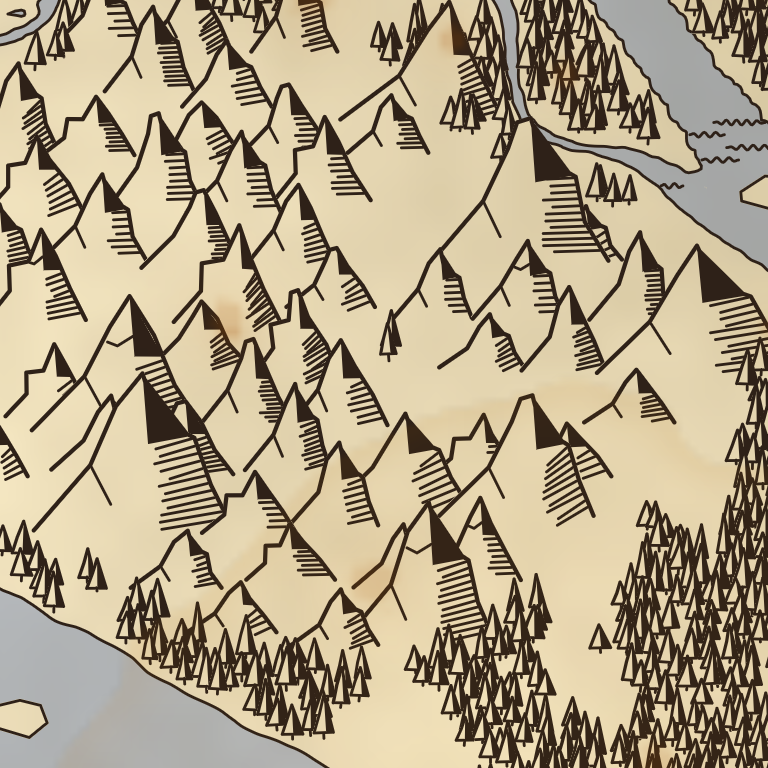
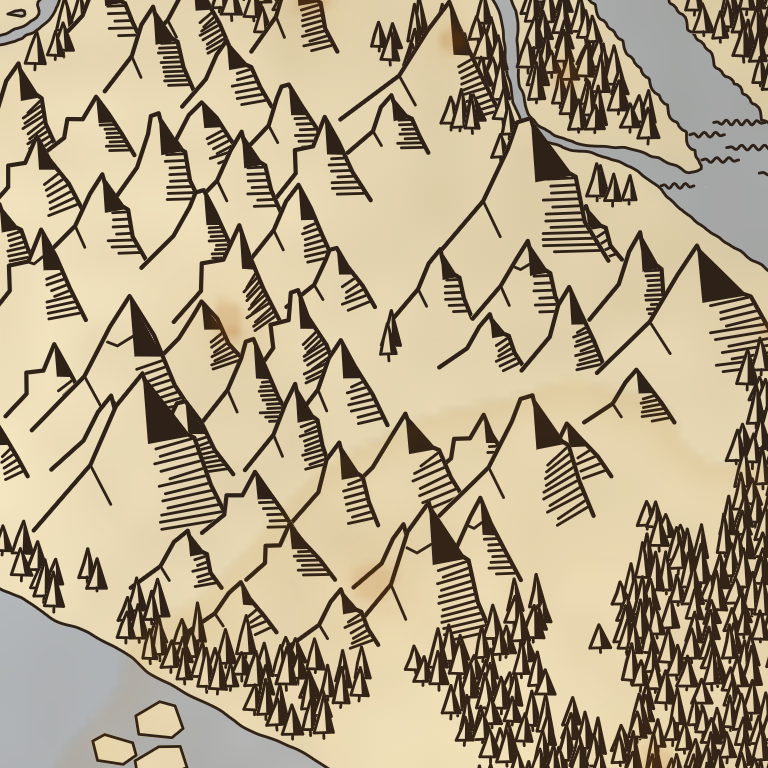
Lay ice floes where the game sets its ice
The game's ice is Deep North vegetation only, and GetBiome gives the
Ocean before the Deep North wherever the base height is low, so the open
northern sea is Ocean with no ice; about 70% of the floes stood there
while the real ice, the Deep North's shallow coast and its side of the
border moat, was mostly missed. Floes now lie on sea water in the Deep
North whose height over CreateDeepNorthGap is at least 14 m, on a finer
grid and kept only a little off the shore. They are drawn over the waves
instead of the waves keeping off them, the open northern sea may hold
the sea figures like any ocean, and Deep North lakes get a lighter water
glaze. Sheet cache version 17.

diff --git a/src/Ink/WorldSource.cs b/src/Ink/WorldSource.cs
@@ -124,6 +124,19 @@ namespace Atlas
         public float[] m_swampField;
         // Swamp water joined to the sea, which is not raised (MarkSwampSea).
         public bool[] m_swampSea;
+        // The Deep North's own water, where the game sets its ice (MarkIce), grown by IceReach map
+        // pixels so a floe may lie half over the open sea beside a narrow fringe.
+        public bool[] m_iceWater;
+        // The Deep North's lakes (water not joined to the map's edge), 1 in a lake, 0 elsewhere,
+        // which take a lighter water glaze (Paper.WaterColor).
+        public float[] m_northLake;
+        // Vanilla's GetBiome gives the Ocean before the Deep North wherever the base height is low,
+        // so the open northern sea is Ocean, at most about 4 m above the sea floor's zero, and the
+        // Deep North's own water (its shallow coast, the north side of the border moat, its lakes)
+        // stands at 23 m and more before CreateDeepNorthGap pulls the moat under; nothing lies
+        // between, so IceFloor (metres, absolute) splits them on the height over the gap.
+        private const float IceFloor = 14f;
+        private const int IceReach = 4;
         private const int SwampBlur = 3;
         // Rivers and streams from the world generator. The minimap's 12 m pixels lose the narrow
         // ones (a stream's channel is about 20 m wide), so they are drawn from their courses.
@@ -487,6 +500,7 @@ namespace Atlas
                 if (z < m_size - 1) Seed(i + m_size);
             }
             for (int i = 0; i < count; i++) m_swampSea[i] = sea[i] && m_biome[i] == Land.Swamp;
+            MarkIce(sea);
 
             void Seed(int j)
             {
@@ -496,6 +510,48 @@ namespace Atlas
                 queue[tail++] = j;
             }
         }
+
+        // The Deep North's ice water and lakes (m_iceWater, m_northLake), from the heights before
+        // any swamp is raised and the water flooded from the map's edge (sea). The game's ice
+        // (ice1_deepnorth, ice_rock1_deepnorth) is Deep North vegetation only; the open northern
+        // sea is Ocean and has none.
+        private void MarkIce(bool[] sea)
+        {
+            int count = m_size * m_size, half = m_size / 2;
+            var ice = new bool[count];
+            m_northLake = new float[count];
+            for (int i = 0; i < count; i++)
+            {
+                float h = m_height[i];
+                if (h > m_waterLevel) continue;
+                float wx = (i % m_size - half) * m_pixelSize + m_pixelSize * 0.5f;
+                float wz = (i / m_size - half) * m_pixelSize + m_pixelSize * 0.5f;
+                if (!WorldGenerator.IsDeepnorth(wx, wz)) continue;
+                if (!sea[i]) m_northLake[i] = 1f;
+                // Right on the border the gap pulls both kinds of water to nothing.
+                double gap = WorldGenerator.CreateDeepNorthGap(wx, wz);
+                if (gap > 1e-3 && h / gap >= IceFloor) ice[i] = sea[i];
+            }
+            // Grown a square of IceReach either way, rows then columns.
+            var rows = new bool[count];
+            m_iceWater = new bool[count];
+            for (int z = 0; z < m_size; z++)
+                for (int x = 0; x < m_size; x++)
+                    for (int d = -IceReach; d <= IceReach; d++)
+                    {
+                        int xx = x + d;
+                        if (xx >= 0 && xx < m_size && ice[z * m_size + xx]) { rows[z * m_size + x] = true; break; }
+                    }
+            for (int z = 0; z < m_size; z++)
+                for (int x = 0; x < m_size; x++)
+                    for (int d = -IceReach; d <= IceReach; d++)
+                    {
+                        int zz = z + d;
+                        if (zz >= 0 && zz < m_size && rows[zz * m_size + x]) { m_iceWater[z * m_size + x] = true; break; }
+                    }
+        }
+
+        public bool IsIceWater(float wx, float wz) => m_iceWater != null && m_iceWater[Index(wx, wz)];
 
         // Vanilla grows every Deep North tree (snowy firs and pines, ZoneSystem's vegetation from
         // _LocationList_DeepNorth) only where the forest factor is under 1.15, the Meadows' own

diff --git a/src/Ink/InkPainter.cs b/src/Ink/InkPainter.cs
@@ -421,6 +421,12 @@ namespace Atlas
         private readonly List<Vector2> m_crags = new List<Vector2>(1024);
         // Ice floes sit on the water, so they are drawn after the coast's wave accents, over them.
         private readonly List<Glyph> m_floes = new List<Glyph>(4096);
+        // Floes: a grid of FloeStep G with FloeOdds of its cells taken (fine enough to hit the
+        // narrow coastal ice, mostly within 24-36 m of land), and FloeShoreGap canvas pixels
+        // kept between a floe's outline and land.
+        private const float FloeStep = 10f;
+        private const float FloeOdds = 0.5f;
+        private const float FloeShoreGap = 1.5f;
         private float[] m_coast;
         // Map pixels of water joined to the sea, and canvas pixels of sea.
         private bool[] m_seaCell;
@@ -2625,12 +2631,15 @@ namespace Atlas
                 m_glyphs.Add(thorn);
                 m_thorns.Add(thorn);
             });
-            // Sea: ice floes in the northern sea. The open sea is otherwise left blank but for a
-            // few illustrations (DrawIllustrations); wave marks far out read as birds.
-            Scatter(15f * G, 33, s =>
+            // Sea: ice floes on the Deep North's own water (WorldSource.m_iceWater: its shallow
+            // coast and the north side of the border moat), where the game sets its ice; the open
+            // northern sea is Ocean and has none. A floe keeps FloeShoreGap clear of land beyond
+            // its own size, so it never hides the coast line. The open sea is otherwise left blank
+            // but for a few illustrations (DrawIllustrations); wave marks far out read as birds.
+            Scatter(FloeStep * G, 33, s =>
             {
-                if (m_sea[s.m_pixel] == 0 || s.m_water < 4f * G || !(s.m_roll < 0.5f)) return;
-                if (!WorldGenerator.IsDeepnorth(s.m_worldX, s.m_worldZ)) return;
+                if (m_sea[s.m_pixel] == 0 || !(s.m_roll < FloeOdds)) return;
+                if (s.m_water < FloeRadius(G, s.m_seed) + FloeShoreGap || !m_world.IsIceWater(s.m_worldX, s.m_worldZ)) return;
                 m_floes.Add(new Glyph { m_x = s.m_x, m_y = s.m_y, m_size = G, m_kind = Kind.IceFloe, m_seed = s.m_seed });
             });
             // The pins among the rest: glyphs placed without Add that would hide one give way too;
@@ -2905,16 +2914,12 @@ namespace Atlas
         {
             int n = CanvasSize;
             int salt = unchecked(m_world.m_seed + 34 * 7919);
-            // Floes are inked over the waves and erase under them; keeping the waves off them
-            // spares half-erased strokes.
+            // Floes are inked over the waves and scrape what lies under them: the waves are laid
+            // as if the ice were not there and the floes win (the user's call), as the Deep
+            // North's coasts all carry an ice fringe and keeping the waves off it left them bare.
             m_floeSet = new HashSet<int>();
-            foreach (Glyph floe in m_floes)
-            {
-                float size = 5.5f * floe.m_size + 1.5f;
-                Footprint(m_floeSet, n, new Vector2(floe.m_x - size, floe.m_y), new Vector2(floe.m_x + size, floe.m_y), size * 0.7f, true);
-            }
             // The Ashlands' sea thorns are drawn before the waves; the waves keep off them and
-            // their waterlines the same way.
+            // their waterlines.
             foreach (Glyph thorn in m_thorns)
             {
                 Vector4 box = GlyphBox(thorn);

diff --git a/src/Paper.cs b/src/Paper.cs
@@ -109,6 +109,8 @@ namespace Atlas
         // Water is one even indigo wash, so seas, lakes and rivers read as water. A shade by depth
         // would draw the sea floor more exactly than a hand-tinted map does.
         private static readonly Tint s_water = new Tint(100, 135, 190, 0.42f);
+        // The Deep North's lakes take this share of the water's strength.
+        private const float NorthLakeWater = 0.55f;
         // The sea marks' washes (SeaWash, the user's "take 3"): a second glaze of a deeper indigo
         // in the wedge of water under a mark's waterline, the shadow it casts trailing east, and
         // an iron grey glazed over a figure's body above the water. The grey is neutral to cool:
@@ -167,19 +169,23 @@ namespace Atlas
         // the tint mixed in by its strength.
         private static float Filter(float tint, float paper) => Math.Min(tint / paper, 1.1f);
 
-        public static void WaterColor(float r, float g, float b, out float wr, out float wg, out float wb)
+        public static void WaterColor(float r, float g, float b, out float wr, out float wg, out float wb) =>
+            WaterColor(r, g, b, s_water.m_strength, out wr, out wg, out wb);
+
+        private static void WaterColor(float r, float g, float b, float s, out float wr, out float wg, out float wb)
         {
-            float s = s_water.m_strength;
             wr = r * (1f - s + s * Filter(s_water.m_color.r, PaperColor.r));
             wg = g * (1f - s + s * Filter(s_water.m_color.g, PaperColor.g));
             wb = b * (1f - s + s * Filter(s_water.m_color.b, PaperColor.b));
         }
 
-        // The water's colour over this parchment at a world point, warmed by the Ashlands' boiling
-        // sea there (AshSeaGlaze).
+        // The water's colour over this parchment at a world point, lighter on the Deep North's
+        // lakes (NorthLakeWater, the user's call: frozen-over water among the snow) and warmed by
+        // the Ashlands' boiling sea there (AshSeaGlaze).
         public static void WaterColor(float r, float g, float b, WorldSource world, float wx, float wz, out float wr, out float wg, out float wb)
         {
-            WaterColor(r, g, b, out wr, out wg, out wb);
+            float lake = world.m_northLake != null ? world.Sample(world.m_northLake, wx, wz) : 0f;
+            WaterColor(r, g, b, s_water.m_strength * (1f - lake * (1f - NorthLakeWater)), out wr, out wg, out wb);
             if (world.m_ashSea == null) return;
             float heat = world.Sample(world.m_ashSea, wx, wz);
             if (heat > 0f) AshSeaGlaze(wr, wg, wb, heat, out wr, out wg, out wb);

diff --git a/src/Ink/InkPainter.Sea.cs b/src/Ink/InkPainter.Sea.cs
@@ -309,10 +309,11 @@ namespace Atlas
             return false;
         }
 
-        // The open ocean is where Valheim's Serpent swims: the Ocean biome outside the Deep North.
-        // Vanilla's GetBiome gives the Ashlands before the ocean, so the boiling sea round the
-        // Ashlands is the Ashlands biome's water; the Deep North comes after it, so its sea is
-        // Ocean and is told apart by IsDeepnorth, as WorldSource does for the shared white.
+        // The open ocean is where Valheim's Serpent swims: the Ocean biome. Vanilla's GetBiome
+        // gives the Ashlands before the ocean, so the boiling sea round the Ashlands is the
+        // Ashlands biome's water; the Deep North comes after it, so the open northern sea is Ocean
+        // too and only the Deep North's own water, where its ice lies (WorldSource.m_iceWater),
+        // is not (the minimap's shared white decodes it as Ocean).
         // (IsAshlands would run WorldGenerator's static constructor, which the offline preview
         // cannot load; the minimap's biomes are enough.)
         private Sea SeaAt(float x, float y)
@@ -322,7 +323,7 @@ namespace Atlas
             float wx = x * MetresPerPixel - HalfExtent, wz = HalfExtent - y * MetresPerPixel;
             Land land = m_world.m_biome[m_world.Index(wx, wz)];
             if (land == Land.Ashlands) return Sea.Ashlands;
-            if (land == Land.Ocean && !WorldGenerator.IsDeepnorth(wx, wz)) return Sea.Open;
+            if (land == Land.Ocean && !m_world.IsIceWater(wx, wz)) return Sea.Open;
             return Sea.None;
         }
 

diff --git a/src/Ink/Glyphs.cs b/src/Ink/Glyphs.cs
@@ -1039,16 +1039,19 @@ namespace Atlas
         }
 
 
+        // An ice floe's largest radius (its outline lies within it), for the floes' shore gap.
+        public static float FloeRadius(float s, int seed) => Mathf.Lerp(2.5f, 5.5f, Unit(seed, 10)) * s;
+
         // An ice floe: a small irregular outline lying on the water. Only the outline itself is
         // scraped back to parchment, so a floe touching the shore lies over the coast line without
         // cutting it beside the floe, and it is filled with the Deep North's wash, as ice, not the
-        // sea's. Waves are already kept off floes (m_floeSet). The outline
+        // sea's. Floes are drawn over the waves and scrape them. The outline
         // may sag inwards, so it is filled in one pass as peak bodies are
         // (InkCanvas.EraseOutline); a fan of triangles from its centre leaves faint seams.
         private void IceFloe(float x, float y, float s, int seed)
         {
             const int corners = 6;
-            float size = Mathf.Lerp(2.5f, 5.5f, Unit(seed, 10)) * s;
+            float size = FloeRadius(s, seed);
             m_bodyOutline.Clear();
             for (int k = 0; k < corners; k++)
             {

diff --git a/src/Ink/InkCache.cs b/src/Ink/InkCache.cs
@@ -18,7 +18,7 @@ namespace Atlas
     internal static class InkCache
     {
         private const int Magic = 0x534C5441; // "ATLS"
-        private const int Version = 16;
+        private const int Version = 17;
         // A file never holds more sea illustrations than this; more means it is damaged.
         private const int MostSeaMarks = 256;
         // Nor more marks of a kind (trees, glyphs, wave strokes) than this.

diff --git a/CLAUDE.md b/CLAUDE.md
@@ -392,7 +392,7 @@ Stack, build, verification and git workflow are shared by all mods: see `../CLAU
     or `WaveFloating` strokes floating off its tip (`Floating`, `WaveFloatClear` from land) and
     the rest off its flanks.
   - A bay opening north or south gets its strokes across it from either shore in turn.
-  - `Room` stops a stroke `WaveSlotGap` short of land, floes or the frame, dropping crests to fit,
+  - `Room` stops a stroke `WaveSlotGap` short of land, sea thorns or the frame (not floes, which are drawn over the waves), dropping crests to fit,
     never under two; `Claim` keeps strokes in a row apart.
 - Each wave is also kept as an `InkRecord.Wave` (position, length, crests, phase, lift and
   anchor; every stroke is level, so no direction is kept).
@@ -427,11 +427,12 @@ Stack, build, verification and git workflow are shared by all mods: see `../CLAU
   shore in turn. Water under `LakeMinWidth` (ponds, chains of forest ponds, swamp-side pools)
   stays bare.
 - **Sea illustrations** (`SeaGlyphs`, placed by `DrawIllustrations` in `InkPainter.Sea.cs`):
-  the sea serpent, the serpent coil and the leviathan in the open ocean (the Ocean biome outside
-  `IsDeepnorth`, where the Serpent swims; the leviathan is decoration, not at real positions),
-  the bonemaw serpent only in the Ashlands' sea (water of the Ashlands biome: vanilla's
-  `GetBiome` gives the Ashlands before the ocean, the Deep North after it). The Deep North's sea
-  stays blank. `IsAshlands` is not called: it runs `WorldGenerator`'s static constructor, which
+  the sea serpent, the serpent coil and the leviathan in the open ocean (the Ocean biome, where
+  the Serpent swims, the open northern sea included; the leviathan is decoration, not at real
+  positions), the bonemaw serpent only in the Ashlands' sea (water of the Ashlands biome:
+  vanilla's `GetBiome` gives the Ashlands before the ocean, the Deep North after it). The Deep
+  North's own water (`WorldSource.m_iceWater`, below; the minimap's shared white decodes it as
+  Ocean) stays blank but for its floes. `IsAshlands` is not called: it runs `WorldGenerator`'s static constructor, which
   the offline harness cannot load. Each glyph at most `IllustrationsEach` 3 times. Candidates
   are the peaks of the open water: the distance from any land, islets included, and from the
   frame's inner ring, on `OpenCell` 4 px cells, with no farther cell within two; at least
@@ -465,7 +466,7 @@ Stack, build, verification and git workflow are shared by all mods: see `../CLAU
   another sea, ink near), is a candidate, sorted back into rank order (not the figures'
   farthest-point order, so they keep their own spread; `PlaceStandIns`). One in the Ashlands'
   sea takes boiling water (`SeaGlyphs.Boil`), one in the open ocean a leaping fish
-  (`SeaGlyphs.Fish`); the Deep North's sea none, and lakes are never candidates (their own hand
+  (`SeaGlyphs.Fish`); the Deep North's own water none, and lakes are never candidates (their own hand
   of straight hairlines, a navigation map keeps inland water plain). A stand-in needs its own
   clear water, the figure rule scaled to a mark about 20 px across: open water from land and
   islets of its box's half diagonal plus `StandInOpenClear` 24 px and never under
@@ -930,7 +931,22 @@ Stack, build, verification and git workflow are shared by all mods: see `../CLAU
   as ground fills), off any ground high enough for peaks (searched from the world's heights,
   mostly south of the mark, since a peak rises north of its foot) and off each other (a
   hash-only neighbour test like the marsh marks'), so the sheet and tiles agree. Ice floes are
-  filled with the Deep North's body wash, not left showing the sea's.
+  filled with the Deep North's body wash, not left showing the sea's. They lie where the game
+  sets its ice (`ice1_deepnorth`, `ice_rock1_deepnorth`: Deep North vegetation only, at least
+  1 m of water): `GetBiome` gives the Ocean before the Deep North wherever the base height is at
+  most 0.02, so the open northern sea is Ocean with no ice, and the Deep North's own water is its
+  shallow coast (mostly within 24-36 m of land), the north side of the border moat
+  (`CreateDeepNorthGap` pulls the land under for 400 m either side of the border; the minimap's
+  heights already include it) and its lakes. `WorldSource.MarkIce` marks sea water (flooded from
+  the map's edge) where `IsDeepnorth` holds and the height over the gap is at least `IceFloor`
+  14 m (Ocean is at most about 4 m, Deep North water 23 m and more, nothing between on Velen
+  or demoo), grown `IceReach` 4 map pixels (`m_iceWater`). Floes are scattered on a `FloeStep`
+  10 G grid at `FloeOdds` 0.5 there, their outline `FloeShoreGap` 1.5 px off land
+  (`FloeRadius`). About 70% of the floes used to stand on the open Ocean. They are drawn after
+  the waves and scrape them; the waves are laid as if the ice were not there (the user's call:
+  the floes win), so `m_floeSet` holds only the sea thorns. Lakes get no floes (the user's
+  call) but a lighter water glaze (`WorldSource.m_northLake`, Deep North water not joined to the
+  map's edge, at `Paper.NorthLakeWater` 0.55 of the water's strength, sheet and close-ups).
 - The Mistlands keep their wash. Mist banks are veils of three wavy lines (middle longest, a
   slight tilt, a break or two) with no scraped band under them (bands read as heavy padding),
   laid only in the mist area (`Spot.m_mist`, above) and off steep ground, in the hollows: the

diff --git a/package/README.md b/package/README.md
@@ -62,7 +62,7 @@ Mistlands have denser woods, and bog Swamps more dead trees.
 | Plains | A stipple of dry ground, copses of small round shaded trees, rolling hills on the real hilltops, each drawn a little differently: low or round, a long ridge, a double crest or a shoulder, with or without smaller hills behind |
 | Mistlands | Woods of gnarled, broad-crowned trees over the whole land, thinner where the mist lies and sparse on the steep rock, veils of mist filling the hollows of the misty ground while the knolls stand clear, black crags on the summits and the broken ground, and small scarps with hachures falling downhill on the steep rock between them; its many small pools stay water, each with its own shore |
 | Ashlands | Burnt, ash-clouded ground stippled with cinders, thickest by the lava; red lava fields toned with fine engraved hatching; small rocky peaks; tall spikes of rock standing out of its shallow sea, each on its waterline; its warmed sea gets the bonemaw and, here and there, simmering spots (see Ocean) |
-| Deep North | A near-blank snowfield crossed by thin bands of ice ridges, woods of dense dark pines where the game grows its snowy forests, high peaks and snow-white ice floes in the northern sea |
+| Deep North | A near-blank snowfield crossed by thin bands of ice ridges, woods of dense dark pines where the game grows its snowy forests, high peaks, snow-white ice floes along its shores and on its side of the deep channel at its border, where the game sets its ice (the open northern sea has none), and lakes washed a lighter blue |
 | Rivers | Wide rivers show as water between two banks; narrow rivers and streams as ink lines that taper toward their source; none cross the Ashlands, where the game carves no river beds, nor the streams running down into the Deep North, which the game never carves |
 | Sacrificial Stones | A ring of standing stones round a low altar, where you first arrived |
 

diff --git a/CHANGELOG.md b/CHANGELOG.md
@@ -47,13 +47,15 @@
   the tiniest specks on their own and the open sea get no waves. Lakes get straight
   lines instead, stacked on consecutive rows from one shore, each touching the shore and running
   into the lake, at the lake's bends and along its straight shores, never across it, so still
-  water reads apart from the sea; ponds stay bare. Ice floes in the northern sea are white as the northern snow; rivers and
+  water reads apart from the sea; ponds stay bare. Ice floes, white as the northern snow, lie where the game sets its ice: along the
+  Deep North's shores and on its side of the deep channel at its border, not out on the open
+  northern sea; the Deep North's lakes are washed a lighter blue. Rivers and
   streams are drawn as ink lines, except across the Ashlands, where the game carves none, and
   streams that run down into the Deep North, which the game never carves.
 - A few sea monsters are inked out in wide stretches of open water, spread over the seas rather
   than crowded along the map's rim, as on old maps:
   sea serpents and serpent coils where the game's Serpents swim, the odd leviathan, and the
-  bonemaw's bare bones in the Ashlands' boiling sea; the northern sea stays empty. Each appears
+  bonemaw's bare bones in the Ashlands' boiling sea; the Deep North's icy waters stay empty. Each appears
   at most three times, spread over the map, some facing the other way and a little larger or
   smaller, its body washed iron grey above the water and a wedge of deeper blue in the water
   under it, trailing east like its shadow, so it stands out from the sea round it (the
